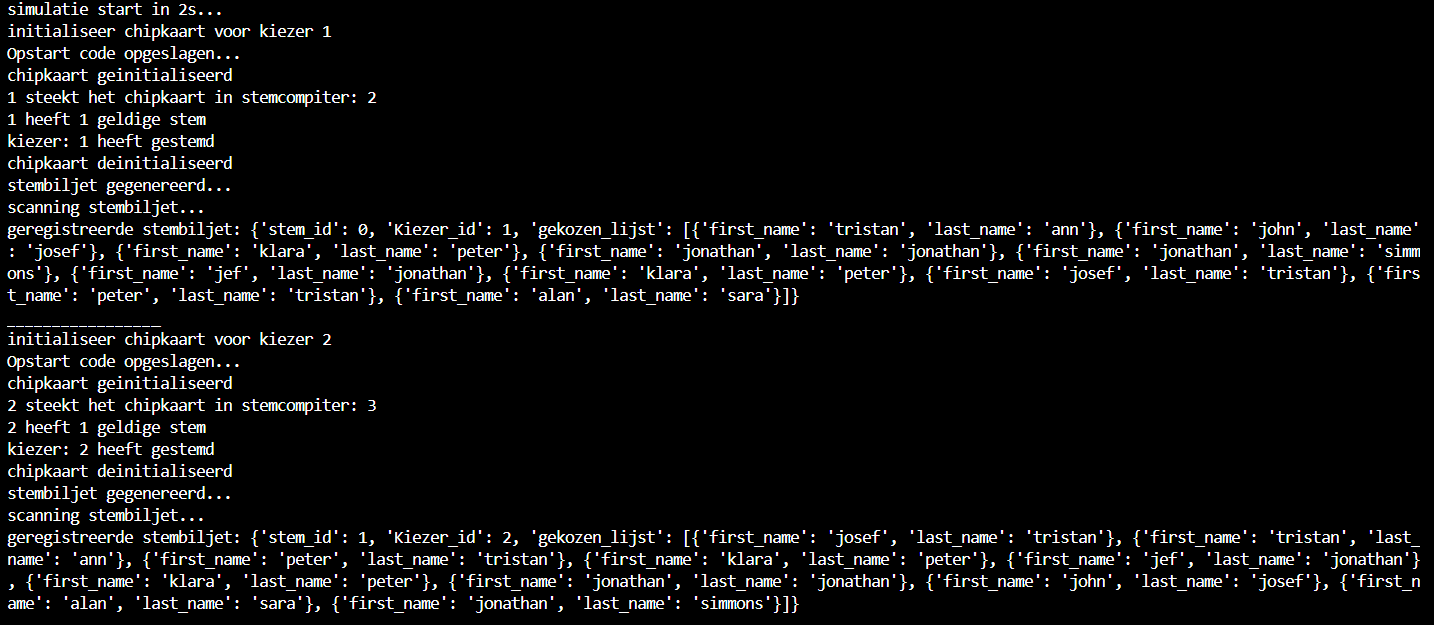
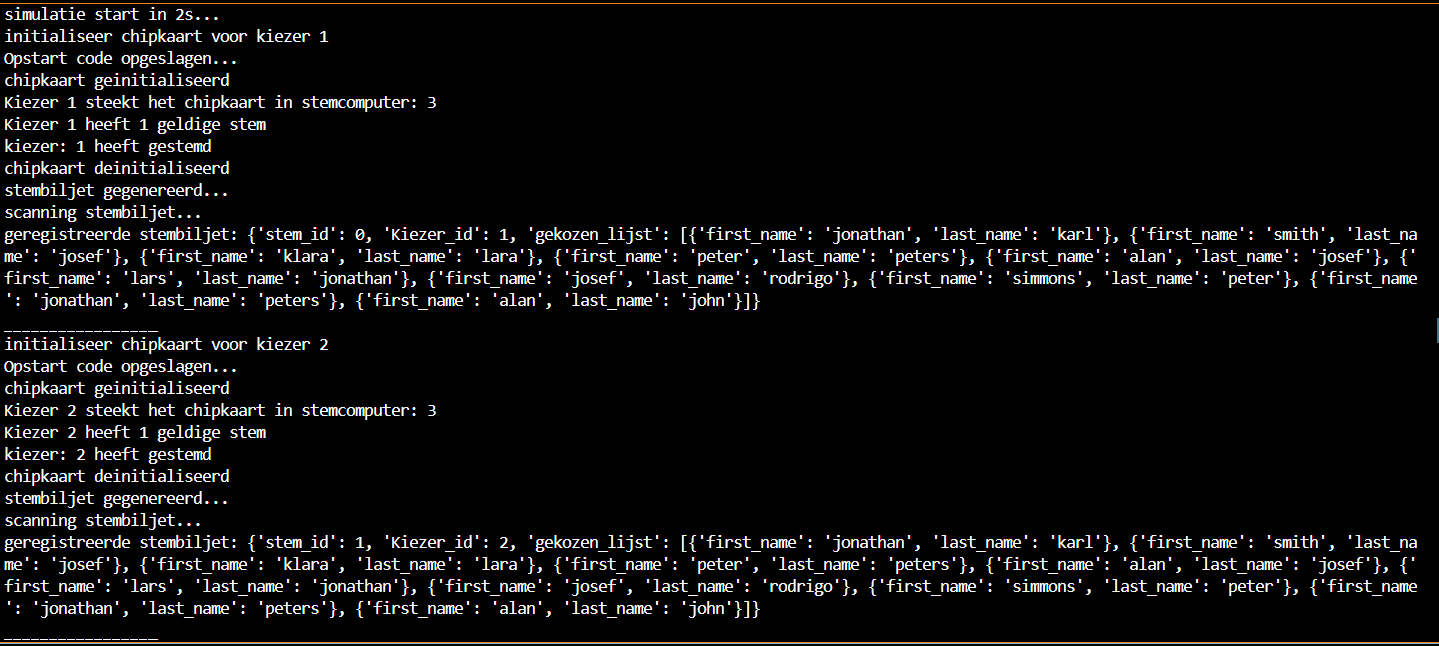
add een nieuwe foto voor de readme

Changed region(s): [[0.0, 0.0, 1.0, 1.0]]

diff --git a/main.py b/main.py
@@ -122,11 +122,11 @@ class Kiessysteem:
 
                 #user krijgts random stemcomputer dat die moet gebruiken
                 stemcomputer = random.choice(self.stemcomputers)
-                print(f"{kiezer.kiezer_id} steekt het chipkaart in stemcompiter: {stemcomputer.id}")
+                print(f"Kiezer {kiezer.kiezer_id} steekt het chipkaart in stemcomputer: {stemcomputer.id}")
 
                 #nakijken of de chipkaart geldig is
                 if chipkaart.code == stemcomputer.opstart_code:
-                    print(f"{kiezer.kiezer_id} heeft 1 geldige stem")
+                    print(f"Kiezer {kiezer.kiezer_id} heeft 1 geldige stem")
                         
                     gekozen_lijst, gekozen_partij = self.stem(kiezer)
 
